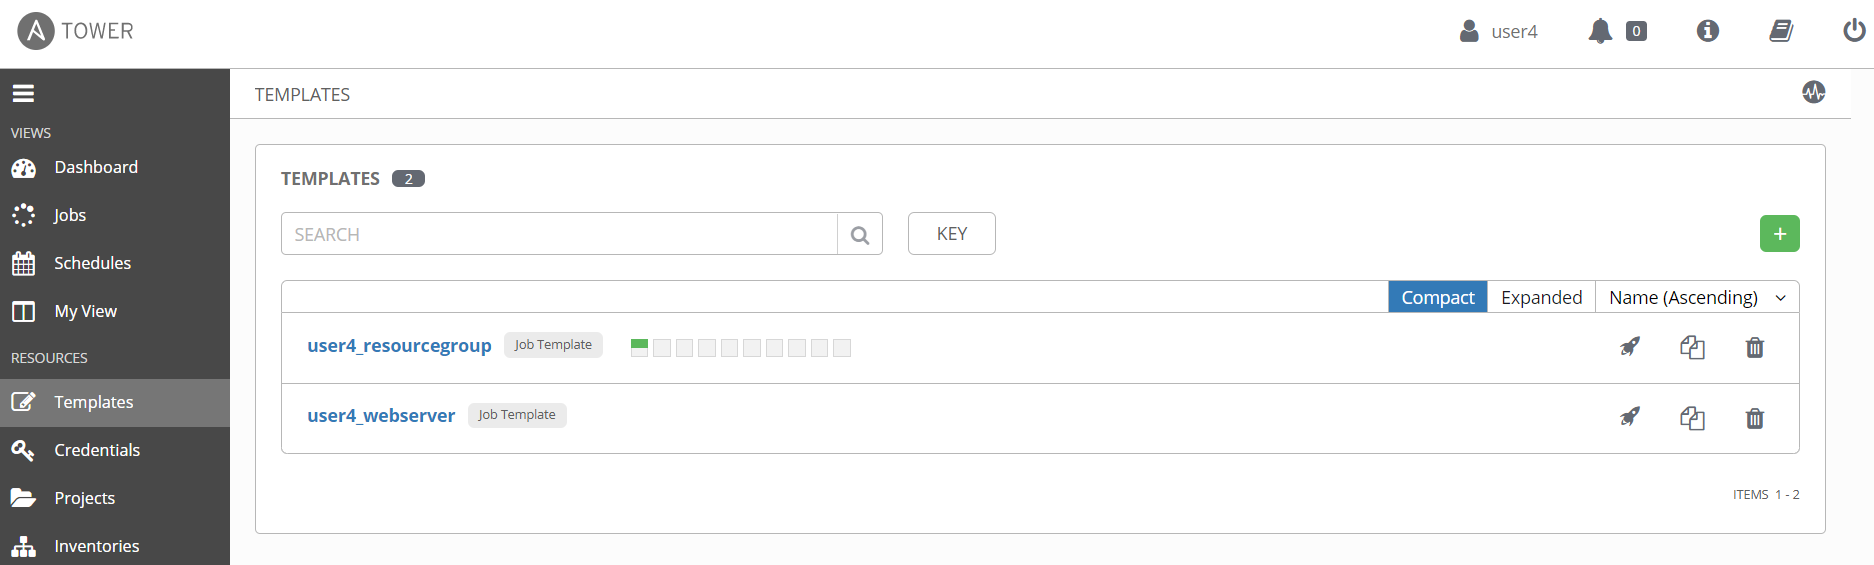
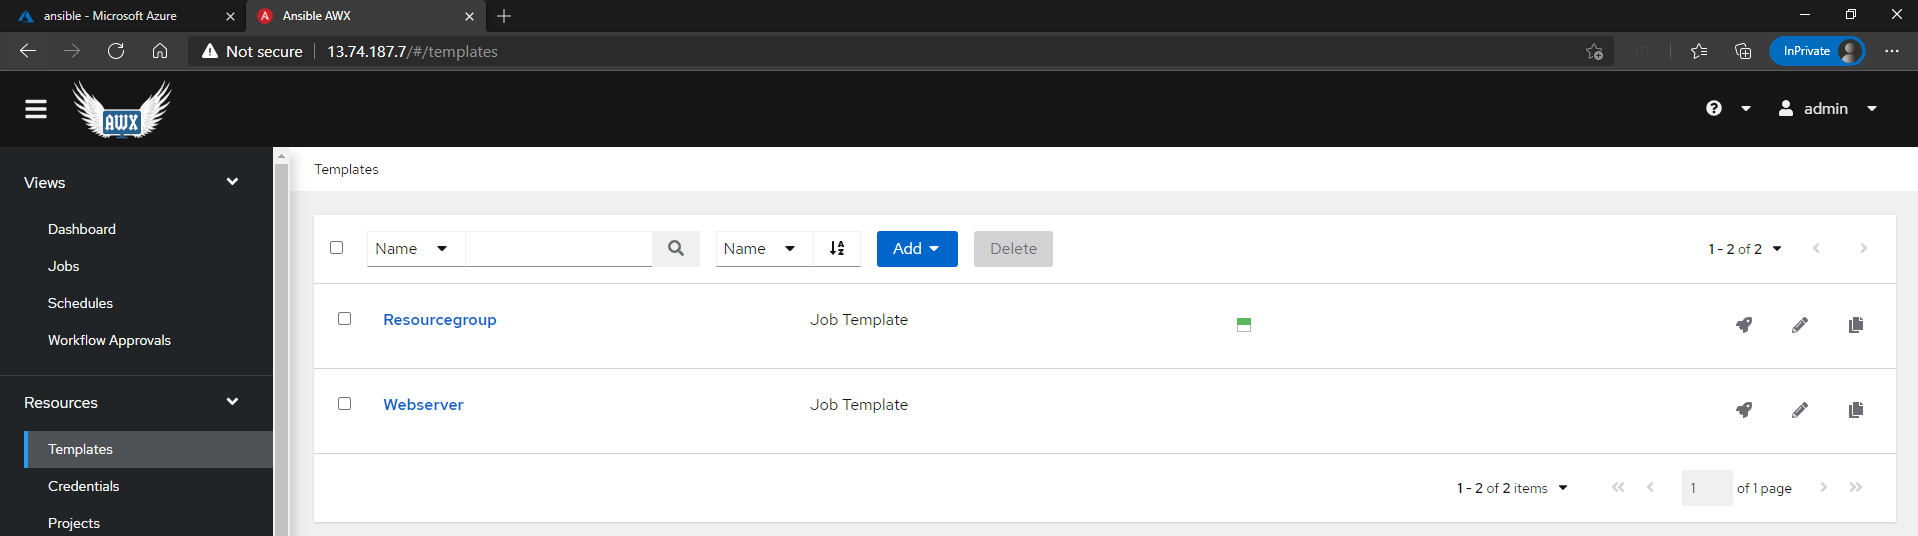
task4 lab 08

diff --git a/lab08/lab8.md b/lab08/lab8.md
@@ -198,7 +198,7 @@ Back in the Tower UI
 
 In the left pane, click Templates
 
-Click on the Green Plus sign to create a new Template select the __Job template__ type
+Click on Add to create a new Template select the __Job template__ type
 
 Type
 
